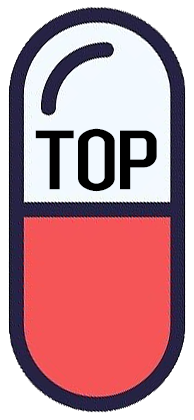
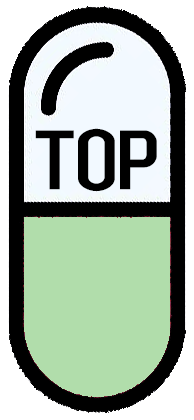
issue,main.jsp top버튼 수정, 추가 top버튼 이미지 수정 main,issue.css top버튼 추가 issue_write 폼 수정 issueWrite.css 생성 jsp 카테고리 nav-href->html-jsp수정

diff --git a/WebContent/right-sidebar.html b/WebContent/right-sidebar.html
@@ -27,7 +27,7 @@
 			<!-- Nav -->
 				<nav id="nav">
 					<ul>
-						<li><a href="main.html">Home</a></li>
+						<li><a href="main.jsp">Home</a></li>
 						<li>
 							<a href="#">커뮤니티</a>
 							<ul>
@@ -47,7 +47,7 @@
 						</li>
 						<li><a href="left-sidebar.html">영양제 검색</a></li>
 						<li class="current"><a href="right-sidebar.html">미정</a></li>
-						<li><a href="issue.html">건강 이슈</a></li>
+						<li><a href="issue.jsp">건강 이슈</a></li>
 					</ul>
 				</nav>
 

diff --git a/WebContent/left-sidebar.html b/WebContent/left-sidebar.html
@@ -27,7 +27,7 @@
 			<!-- Nav -->
 				<nav id="nav">
 					<ul>
-						<li><a href="main.html">Home</a></li>
+						<li><a href="main.jsp">Home</a></li>
 						<li>
 							<a href="#">커뮤니티</a>
 							<ul>
@@ -47,7 +47,7 @@
 						</li>
 						<li class="current"><a href="left-sidebar.html">영양제 검색</a></li>
 						<li><a href="right-sidebar.html">미정</a></li>
-						<li><a href="issue.html">건강이슈</a></li>
+						<li><a href="issue.jsp">건강이슈</a></li>
 					</ul>
 				</nav>
 
